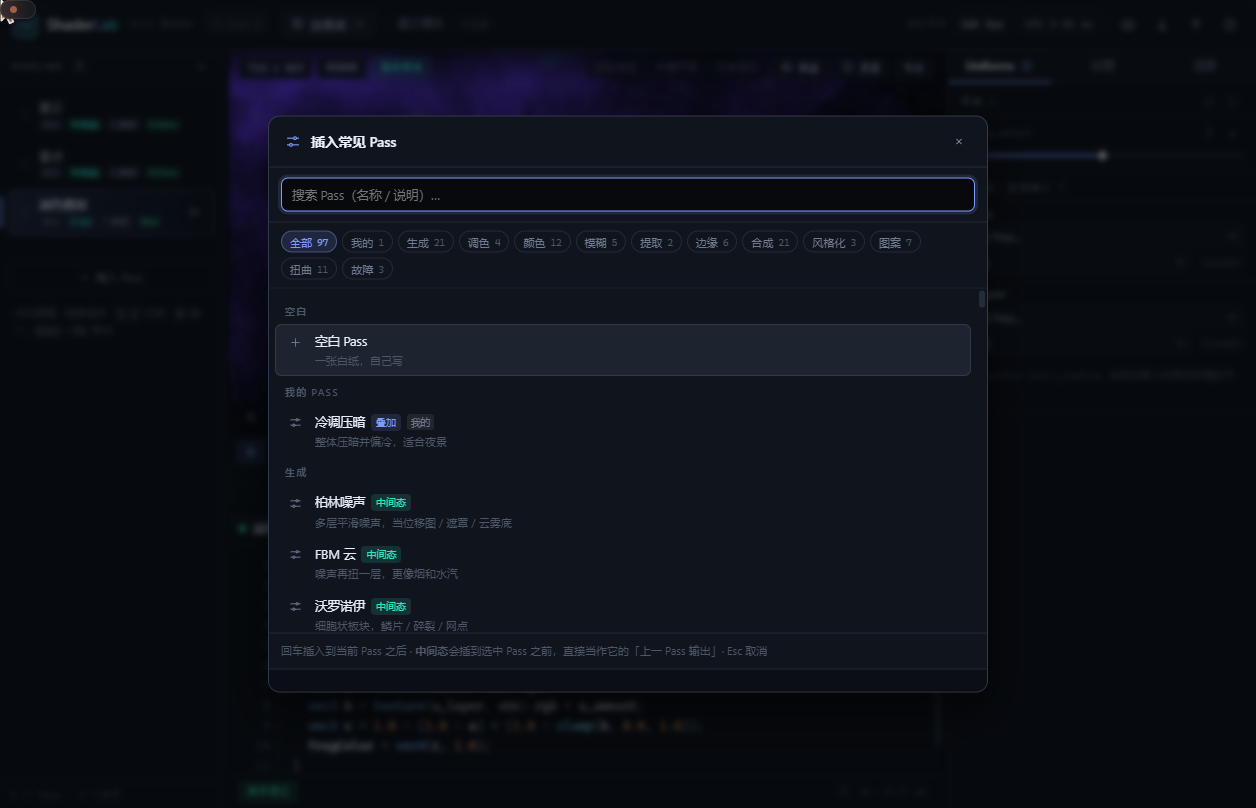
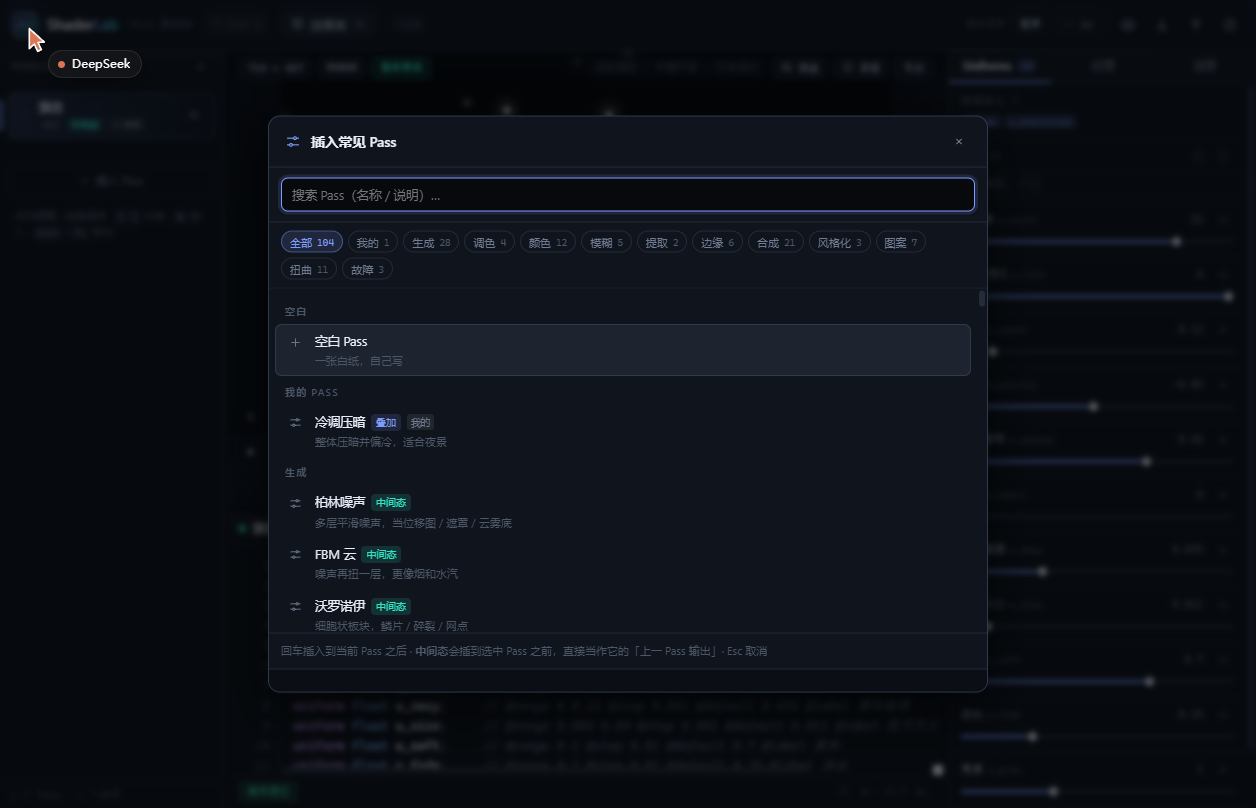
粒子类 Pass：新增 7 个原子粒子模板（通用粒子 / 火花迸发 / 萤火虫 / 飘雪 / 余烬上升 / 浮尘光斑 / 流星），每像素解析求值、无状态；修复连续插入模板时旧 uniform 默认值串进新 Pass 的问题

diff --git a/src/js/passes-extra.js b/src/js/passes-extra.js
@@ -1280,5 +1280,131 @@ ${body}
       '  vec3 c = a * 0.75 + ramp * t * u_amount;')
   );
 
+  /* ───────────── 粒子类 ─────────────
+     没有顶点缓冲 / compute / 多渲染目标，所以粒子是「每像素解析求值」：
+     每颗粒子的出生相位、方向、速度都由 hash 决定，位置用解析运动方程算出来
+     （p = p0 + v·t + ½g·t²），再按距离累加光斑。全部只读 u_time，无状态。 */
+  function particleEntry(id, name, desc, d, extra) {
+    const o = Object.assign({
+      count: 24, life: 1.8, speed: 0.35, gravity: -0.25, spread: 0.05,
+      swirl: 0, sway: 0, size: 0.022, soft: 0.6,
+      color: '1 0.85 0.55', fade: 0.8, glow: 1.0, streak: 0
+    }, d || {});
+    const extraUniforms = (extra && extra.uniforms) || '';
+    const extraBody = (extra && extra.body) || '';
+    return {
+      id: id, name: name, group: '生成', role: 'source', desc: desc,
+      code: `
+uniform float u_count;    // @range 4 64 @step 1 @default ${o.count} @label 粒子数
+uniform float u_life;     // @range 0.4 6 @step 0.05 @default ${o.life} @label 寿命(秒)
+uniform float u_speed;    // @range 0 1.2 @step 0.01 @default ${o.speed} @label 初速
+uniform float u_gravity;  // @range -1.5 1.5 @step 0.01 @default ${o.gravity} @label 重力
+uniform float u_spread;   // @range 0 0.8 @step 0.01 @default ${o.spread} @label 出生散布
+uniform float u_swirl;    // @range 0 2 @step 0.01 @default ${o.swirl} @label 旋涡
+uniform float u_sway;     // @range 0 0.12 @step 0.001 @default ${o.sway} @label 横向摇摆
+uniform float u_size;     // @range 0.004 0.09 @step 0.001 @default ${o.size} @label 粒子大小
+uniform float u_soft;     // @range 0 1 @step 0.01 @default ${o.soft} @label 柔和
+uniform float u_fade;     // @range 0 1 @step 0.01 @default ${o.fade} @label 淡出
+uniform float u_glow;     // @range 0 3 @step 0.01 @default ${o.glow} @label 亮度
+uniform vec3  u_color;    // @color @default ${o.color} @label 颜色
+${extraUniforms}
+void main() {
+  float aspect = u_resolution.x / max(1.0, u_resolution.y);
+  vec2 p = vec2(vUv.x * aspect, vUv.y);
+  vec3 col = vec3(0.0);
+  float life = max(0.15, u_life);
+
+  for (int i = 0; i < 64; i++) {
+    if (float(i) >= u_count) break;
+    float fi = float(i);
+
+    // 每颗粒子错开出生：age 在 0..1 之间循环
+    float phase = sl_hash21(vec2(fi, 1.7));
+    float age = fract(u_time / life + phase);
+
+    // 出生点与初速
+    float ang = sl_hash21(vec2(fi, 9.1)) * 6.2831853;
+    vec2 dir = vec2(cos(ang), sin(ang));
+    vec2 p0 = vec2(0.5) + (vec2(sl_hash21(vec2(fi, 3.3)), sl_hash21(vec2(fi, 5.5))) - 0.5) * u_spread * 2.0;
+    float spd = u_speed * (0.45 + sl_hash21(vec2(fi, 7.7)) * 1.1);
+    vec2 pos = p0 + dir * spd * (age * life);
+    pos.y += 0.5 * u_gravity * (age * life) * (age * life);
+
+    // 旋涡：绕画面中心转
+    vec2 rel = pos - vec2(0.5);
+    float sa = u_swirl * age;
+    float cs = cos(sa);
+    float sn = sin(sa);
+    pos = vec2(0.5) + vec2(rel.x * cs - rel.y * sn, rel.x * sn + rel.y * cs);
+
+    // 横向摇摆
+    pos.x += sin(u_time * 1.3 + fi * 2.0) * u_sway;
+
+    // 大小与光斑
+    float sz = u_size * (0.55 + sl_hash21(vec2(fi, 11.3)) * 0.9);
+    float d = length(p - pos);
+    float core = smoothstep(sz, sz * 0.12, d);
+    float halo = smoothstep(sz * (1.0 + u_soft * 4.0), 0.0, d) * 0.3 * u_soft;
+    float twinkle = 0.7 + 0.3 * sin(u_time * 7.0 + fi * 2.3);
+    float fade = clamp(1.0 - age * u_fade, 0.0, 1.0);
+${extraBody}
+    col += u_color * (core + halo) * fade * twinkle * u_glow;
+  }
+
+  fragColor = vec4(col, 1.0);
+}
+`
+    };
+  }
+
+  T.push(
+    particleEntry('gen-particles', '通用粒子', '可调的粒子场：数量 / 寿命 / 初速 / 重力 / 旋涡 / 摇摆 / 大小全在参数里，其它粒子模板都是它的预设', {}),
+
+    particleEntry('gen-spark-burst', '火花迸发', '从中心炸开的火星，带重力下落与快速淡出；适合打击 / 爆炸的底料', {
+      count: 44, life: 1.1, speed: 0.42, gravity: -0.55, spread: 0.02,
+      size: 0.017, soft: 0.5, color: '1 0.72 0.35', fade: 0.9, glow: 1.8
+    }),
+
+    particleEntry('gen-fireflies', '萤火虫', '缓慢漂浮的暖绿光点，带随机闪烁与绕圈；夜景 / 森林氛围', {
+      count: 26, life: 4.5, speed: 0.09, gravity: 0.0, spread: 0.45,
+      swirl: 0.6, size: 0.018, soft: 0.9, color: '0.85 1 0.45', fade: 0.35, glow: 1.3
+    }),
+
+    particleEntry('gen-snow', '飘雪', '自上而下缓慢飘落的雪点，横向正弦摇摆，落地前淡出', {
+      count: 52, life: 6.0, speed: 0.12, gravity: -0.05, spread: 0.55,
+      sway: 0.035, size: 0.011, soft: 0.7, color: '0.95 0.98 1', fade: 0.25, glow: 1.0
+    }, {
+      body: '    // 雪从上方落下：把出生点抬到画面上方\n    pos.y += 0.35;'
+    }),
+
+    particleEntry('gen-embers', '余烬上升', '向上飘的火星，带旋涡与随机闪烁；火焰 / 篝火的余烬层', {
+      count: 34, life: 2.6, speed: 0.16, gravity: 0.22, spread: 0.12,
+      swirl: 0.35, sway: 0.02, size: 0.009, soft: 0.5, color: '1 0.55 0.18', fade: 0.55, glow: 1.9
+    }),
+
+    particleEntry('gen-dust', '浮尘光斑', '大而软、慢慢移动的光斑，像镜头里的浮尘 / 光晕颗粒', {
+      count: 18, life: 7.0, speed: 0.05, gravity: 0.0, spread: 0.6,
+      swirl: 0.15, size: 0.05, soft: 1.0, color: '1 0.95 0.8', fade: 0.15, glow: 0.45
+    }),
+
+    particleEntry('gen-meteors', '流星', '沿固定方向拖尾的粒子：用方向拉伸的距离场做出速度感', {
+      count: 14, life: 1.6, speed: 0.7, gravity: -0.15, spread: 0.5,
+      size: 0.014, soft: 0.4, color: '0.75 0.9 1', fade: 0.6, glow: 1.4
+    }, {
+      uniforms: 'uniform float u_stretch;  // @range 0 8 @step 0.1 @default 3.5 @label 拖尾长度\n',
+      body: `    // 拖尾：沿运动方向拉长距离场
+    vec2 vel = dir * spd + vec2(0.0, u_gravity * age * life);
+    vec2 dv = p - pos;
+    vec2 tangent = normalize(vel + vec2(1e-4));
+    float along = dot(dv, tangent);
+    float across = length(dv - tangent * along);
+    float tail = u_stretch * sz * 3.0;
+    float shape = smoothstep(sz, sz * 0.2, across) * smoothstep(-tail, 0.0, along) * smoothstep(tail * 0.15, 0.0, along);
+    float d2 = 1.0 - shape;
+    core = shape;
+    halo = shape * 0.25;`
+    })
+  );
+
   window.SL_PASSES_EXTRA = T;
 })();

diff --git a/src/js/app.js b/src/js/app.js
@@ -4083,10 +4083,10 @@ window.SL = window.SL || {};
       '创建后到时间轴上直接改（0 = 无限时间）再打关键帧。' +
       '做完点「导出效果包 JSON」下载，然后 <code>node tools/lib.mjs import 文件名.effect.json</code> + <code>build</code> 就进库了。</p>',
       '<h3>常见 Pass</h3>',
-      '<p>按 <kbd>N</kbd>（或左栏「插入 Pass」）打开选择器，顶部芯片可以按分组过滤：生成 / 调色 / 颜色 / 模糊 / 提取 / 边缘 / 合成 / 风格化 / 图案 / 扭曲 / 故障，目前 95 个模板。' +
+      '<p>按 <kbd>N</kbd>（或左栏「插入 Pass」）打开选择器，顶部芯片可以按分组过滤：生成 / 调色 / 颜色 / 模糊 / 提取 / 边缘 / 合成 / 风格化 / 图案 / 扭曲 / 故障，目前 102 个模板。' +
       '一个模板就是一个 Pass、只做一件事，插进来之后就是普通 Pass，代码、参数、绑定都能改，靠拼管线出复杂效果。</p>',
       '<p><b>叠加态</b>（调色 / 颜色 / 模糊 / 边缘 / 扭曲 / 图案 / 故障…）读上一 Pass 的输出再输出；' +
-      '<b>中间态</b>（21 个「生成」分组：噪声 / FBM / 沃罗诺伊 / 渐变 / 火焰 / 闪电 / 焦散…）不读输入、自己生成一张图，' +
+      '<b>中间态</b>（28 个「生成」分组：噪声 / FBM / 沃罗诺伊 / 渐变 / 火焰 / 闪电 / 焦散 / 粒子…）不读输入、自己生成一张图，' +
       '插在哪个 Pass 前面，那个 Pass 的「上一 Pass 输出」就是它；它自己不会成为整条管线的最终输出。' +
       '也可以在任何 Pass 的采样器里选「指定 Pass」指到它，当噪声、遮罩或位移图用。</p>' +
       '<p><b>合成类</b>（合成分组 21 个：加色 / 滤色 / 正片叠底 / 叠加 / 柔光 / 差值 / 颜色减淡加深 / 取色相饱和明度 / 火焰化 / 冰冻化 / 霓虹化…）' +
@@ -4169,6 +4169,10 @@ window.SL = window.SL || {};
       doc.assets = SL.deepClone((App.doc && App.doc.assets) || []);
       doc.ui = SL.deepClone((App.doc && App.doc.ui) || {});
       doc.passes = built.map(function (bp, i) { bp.id = 'p' + (i + 1); return bp; });
+      // 模板统一用 p1..pN，和上一个模板撞 id；旧的 parsed/compiled 若是同 id 的旧代码，
+      // 会在 selectPass → renderInspector 时先用旧 uniform 列表把默认值写进新 Pass。
+      Object.keys(App.parsed).forEach(function (k) { delete App.parsed[k]; });
+      Object.keys(App.compiled).forEach(function (k) { delete App.compiled[k]; });
       App.doc = SL.store.normalize(doc, { allowEmpty: false });
       App.time = 0; App.frame = 0;
       selectPass(App.doc.passes[0].id, true);

diff --git a/index.html b/index.html
@@ -243,20 +243,20 @@
 <div id="modal-root"></div>
 <div id="ctxmenu" class="ctxmenu hidden"></div>
 
-<script src="src/js/util.js?v=87"></script>
-<script src="src/js/server.js?v=87"></script>
-<script src="src/js/glsl.js?v=87"></script>
-<script src="src/js/assets.js?v=87"></script>
-<script src="src/js/engine.js?v=87"></script>
-<script src="src/js/editor.js?v=87"></script>
-<script src="src/js/uniforms.js?v=87"></script>
-<script src="src/js/pipeline.js?v=87"></script>
-<script src="src/js/passes-extra.js?v=87"></script>
-  <script src="src/js/passes.js?v=87"></script>
+<script src="src/js/util.js?v=91"></script>
+<script src="src/js/server.js?v=91"></script>
+<script src="src/js/glsl.js?v=91"></script>
+<script src="src/js/assets.js?v=91"></script>
+<script src="src/js/engine.js?v=91"></script>
+<script src="src/js/editor.js?v=91"></script>
+<script src="src/js/uniforms.js?v=91"></script>
+<script src="src/js/pipeline.js?v=91"></script>
+<script src="src/js/passes-extra.js?v=91"></script>
+  <script src="src/js/passes.js?v=91"></script>
 <!-- 效果库 / 公共图库：由 node tools/lib.mjs build 生成，缺文件时页面照常可用 -->
-<script src="content/effects/index.js?v=87"></script>
-<script src="content/library/index.js?v=87"></script>
-<script src="src/js/store.js?v=87"></script>
-<script src="src/js/app.js?v=87"></script>
+<script src="content/effects/index.js?v=91"></script>
+<script src="content/library/index.js?v=91"></script>
+<script src="src/js/store.js?v=91"></script>
+<script src="src/js/app.js?v=91"></script>
 </body>
 </html>

diff --git a/README.md b/README.md
@@ -259,11 +259,11 @@ uniform sampler2D u_tex;   // @label 输入图
 
 ## 常见 Pass
 
-按 `N` 打开选择器，顶部芯片可以按分组过滤（也能直接搜名称 / 说明 / 代码）。**一个模板就是一个 Pass**，插进来之后就是普通 Pass。目前 95 个，都是原子操作——一个 Pass 只做一件事，靠拼管线出复杂效果：
+按 `N` 打开选择器，顶部芯片可以按分组过滤（也能直接搜名称 / 说明 / 代码）。**一个模板就是一个 Pass**，插进来之后就是普通 Pass。目前 102 个，都是原子操作——一个 Pass 只做一件事，靠拼管线出复杂效果：
 
 | 分组 | 数量 | 有什么 |
 | --- | --- | --- |
-| 生成（中间态） | 21 | 柏林噪声、FBM 云、沃罗诺伊、径向渐变、斜向条纹、圆形光斑；等离子、火焰、气泡、星空、闪电、水焦散、烟、体积光、雨、网格、棋盘、噪点、波纹线、涡流、火星 |
+| 生成（中间态） | 28 | 柏林噪声、FBM 云、沃罗诺伊、径向渐变、斜向条纹、圆形光斑；等离子、火焰、气泡、星空、闪电、水焦散、烟、体积光、雨、网格、棋盘、噪点、波纹线、涡流、火星；**7 个粒子**（见下） |
 | 调色 | 4 | 基础调色（饱和 / 对比 / 色调 / 暗角）、色阶、黑白、ACES 影调 |
 | 颜色 | 12 | 改色相、饱和度、对比度、亮度、色温、棕褐、反相、色阶量化、二值化、双色调、通道混合、鲜艳度 |
 | 模糊 | 5 | 高斯横向 / 纵向、径向、方框、运动模糊 |
@@ -275,10 +275,26 @@ uniform sampler2D u_tex;   // @label 输入图
 | 扭曲 | 11 | 波纹、噪声位移、残影反馈、漩涡、鱼眼、挤压、桶形、镜像、万花筒、平铺、UV 滚动 |
 | 故障 | 3 | 故障切片、RGB 分离、溶解 |
 
+七个粒子模板都在「生成」分组里，共同参数是数量 / 寿命 / 初速 / 重力 / 出生散布 / 旋涡 / 横向摇摆 / 大小 / 柔和 / 淡出 / 亮度 / 颜色。它们不是有状态的粒子系统，而是**每像素解析求值**：每颗粒子的出生时刻、方向、速度由哈希决定，位置用 `p = p₀ + v·t + ½g·t²` 直接算，所以不吃显存也不用 ping-pong，随便叠几层：
+
+| 模板 | 手感 | 主要调什么 |
+| --- | --- | --- |
+| 通用粒子 | 从中心缓慢散开的光点，最通用的底子 | 全部参数 |
+| 火花迸发 | 中心炸开、带重力下坠、快速淡出 | 初速、重力、亮度 |
+| 萤火虫 | 缓慢漂浮的暖绿光点，带旋涡与闪烁 | 旋涡、寿命、亮度 |
+| 飘雪 | 自上而下、横向正弦摇摆、落地前淡出 | 摇摆、数量、大小 |
+| 余烬上升 | 向上飘的火星，带旋涡 | 重力（正值）、旋涡 |
+| 浮尘光斑 | 大而软、慢慢移动的焦外光斑 | 大小、柔和、亮度 |
+| 流星 | 沿方向拉长成拖尾 | 拖尾长度、初速 |
+
+![粒子模板](docs/pass-particles.png)
+
+粒子是中间态（不读输入），用法和其它生成类一样：插在选中 Pass 之前，或让某个 Pass 的采样器「指定 Pass」指到它；叠「加色 / 滤色」合成模板就能压到已有画面上。
+
 模板有三种角色：
 
 - **叠加态**：读上一 Pass 的输出再输出（调色 / 颜色 / 模糊 / 边缘 / 扭曲 / 图案 / 故障），插在当前 Pass 之后。
-- **中间态**：不读输入、自己生成一张图（21 个「生成」分组），插在选中 Pass **之前**——那个 Pass 的「上一 Pass 输出」随即就是它（左栏会标「中间态」）。
+- **中间态**：不读输入、自己生成一张图（28 个「生成」分组），插在选中 Pass **之前**——那个 Pass 的「上一 Pass 输出」随即就是它（左栏会标「中间态」）。
   中间态自己不作为整条管线的最终输出；也可以在任何 Pass 的采样器里选「指定 Pass」直接指到它，当噪声、遮罩或位移图用。
 - **合成 / 双输入**：`u_tex` 是当前画面、`u_layer` 是第二输入（「合成」分组）。插进来后 `u_layer` 默认指向内置噪声图，
   去右侧参数面板把它改成「指定 Pass」的火焰 / 气泡 / 星空，就是「火焰版」「冰冻版」。想把某个 Pass 变火焰版：
@@ -376,7 +392,7 @@ shaderTest/
 │       ├── editor.js       代码编辑器（高亮 / 行号 / 错误行 / 缩进 / 快捷键）
 │       ├── uniforms.js     Uniforms 页渲染：参数控件 + 采样器绑定
 │       ├── pipeline.js     左栏 Pass 列表（选中 / 改名 / 拖拽 / 启用停用 / 右键菜单）
-│       ├── passes.js       内置常见 Pass 模板（22 个基础 + passes-extra.js 的 73 个）
+│       ├── passes.js       内置常见 Pass 模板（22 个基础 + passes-extra.js 的 80 个）
 │       ├── passes-extra.js 扩展模板（53 个原子 Pass，只写 id/name/group/role/desc/code）
 │       ├── store.js        自动保存（.state/project.json / IndexedDB / localStorage）、导入导出
 │       └── app.js          装配：渲染循环、预览交互、编译调度、检查器、快捷键、图库
